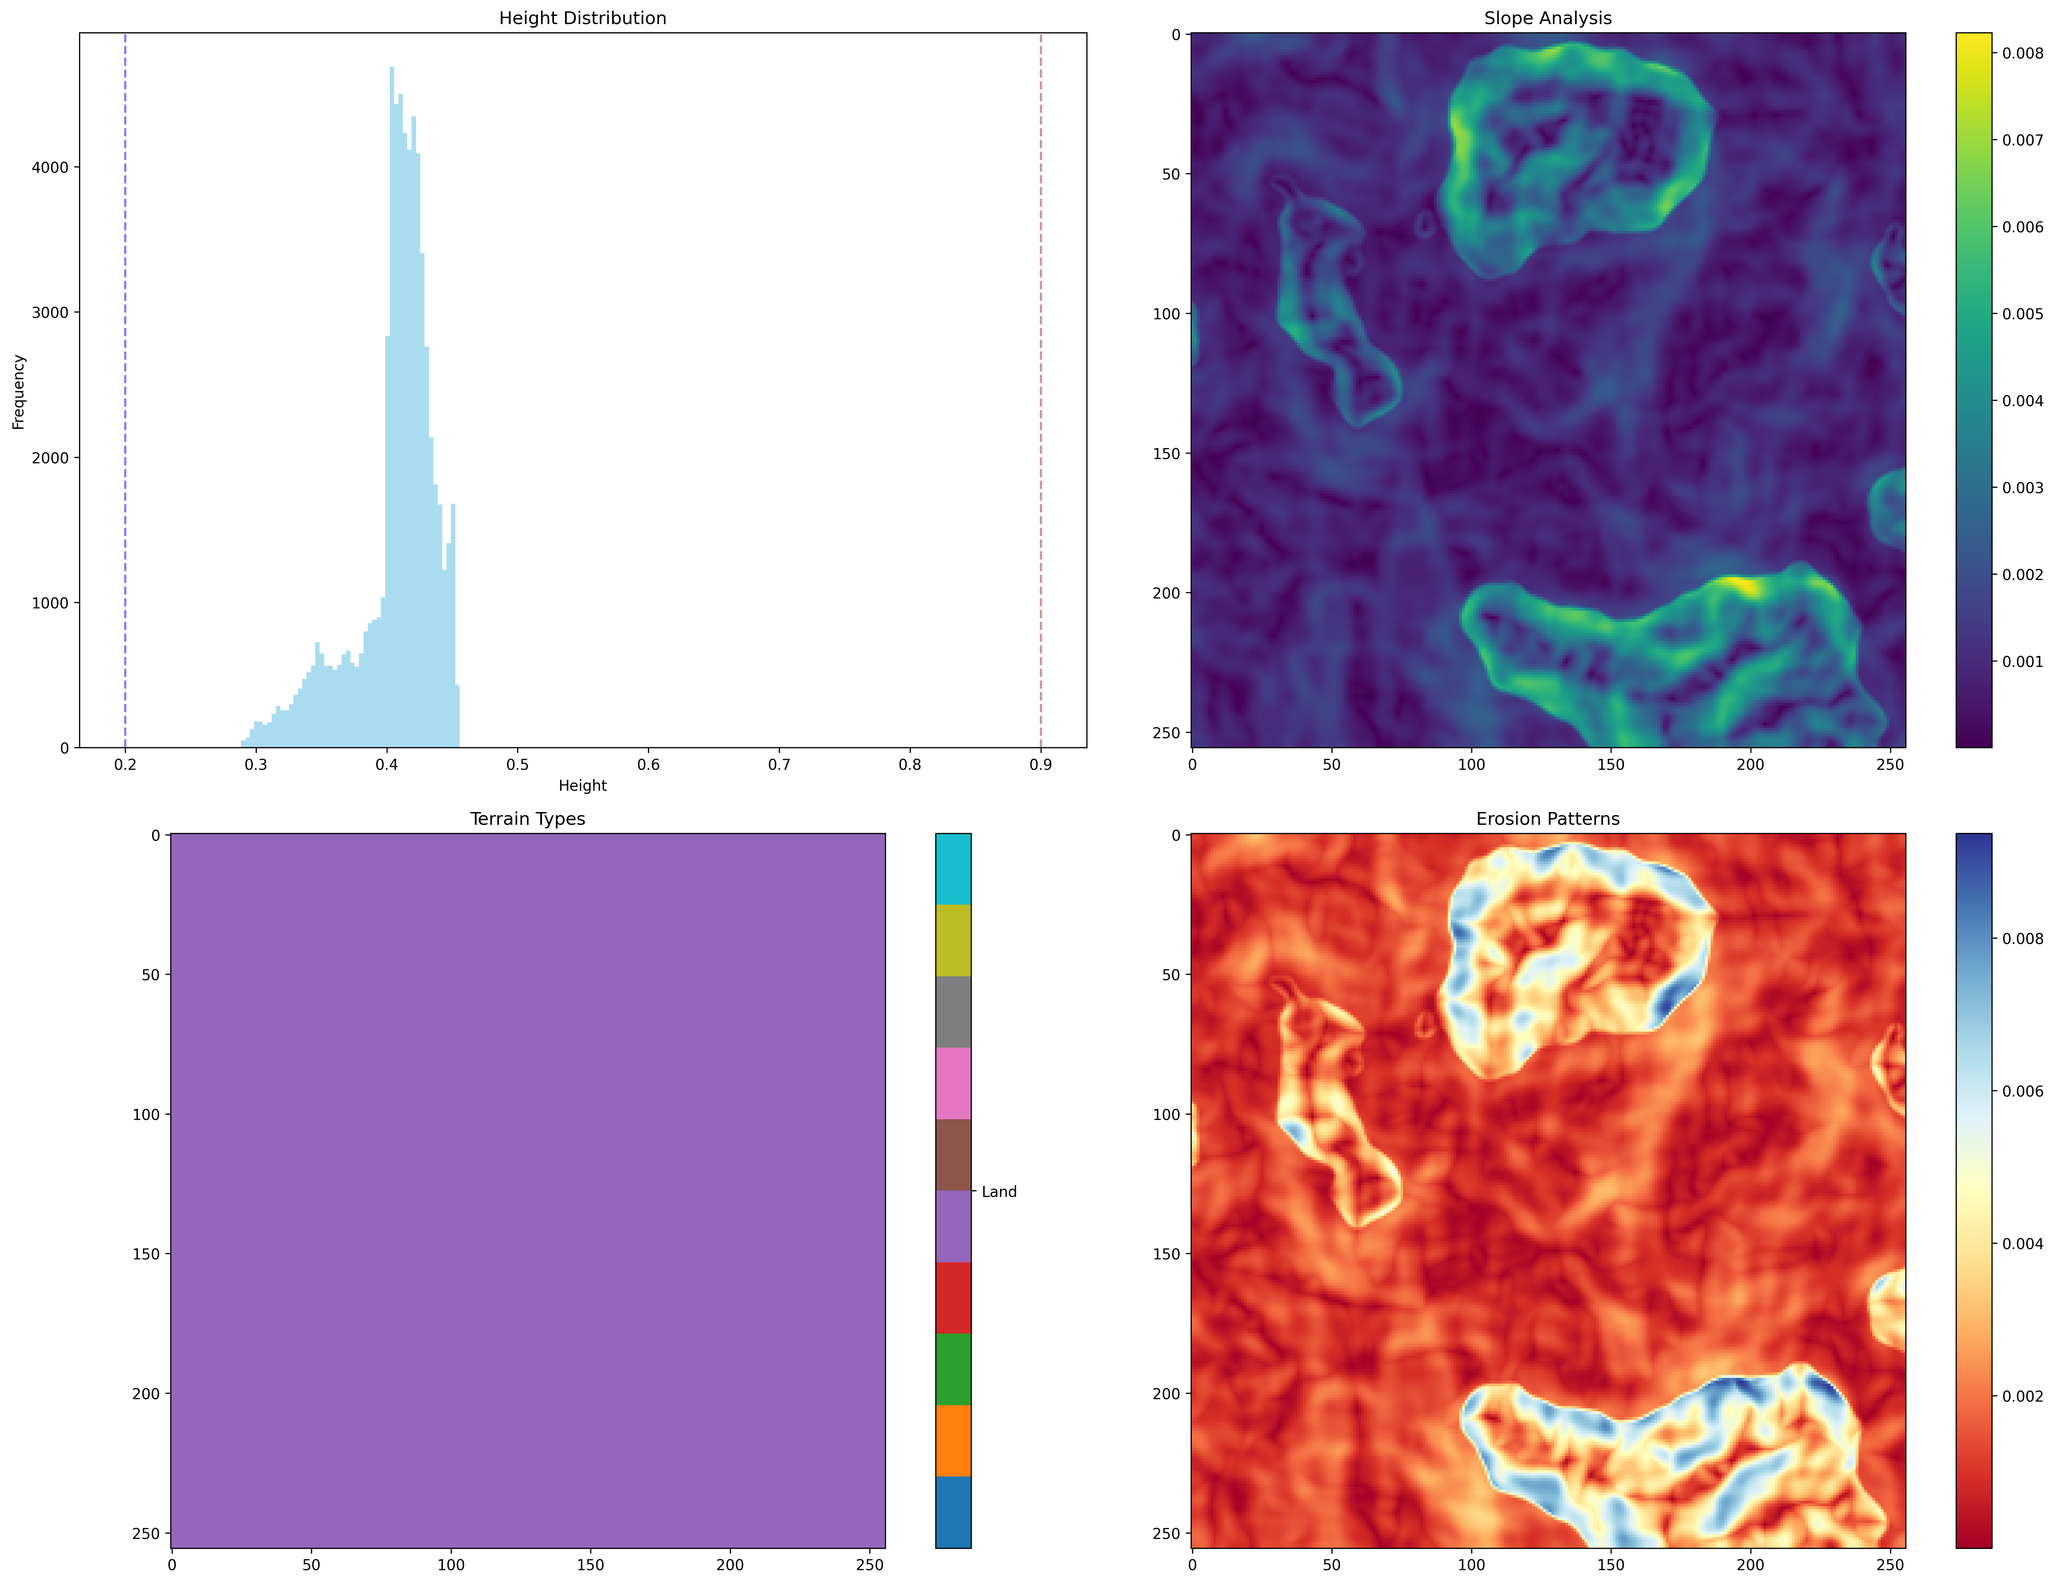
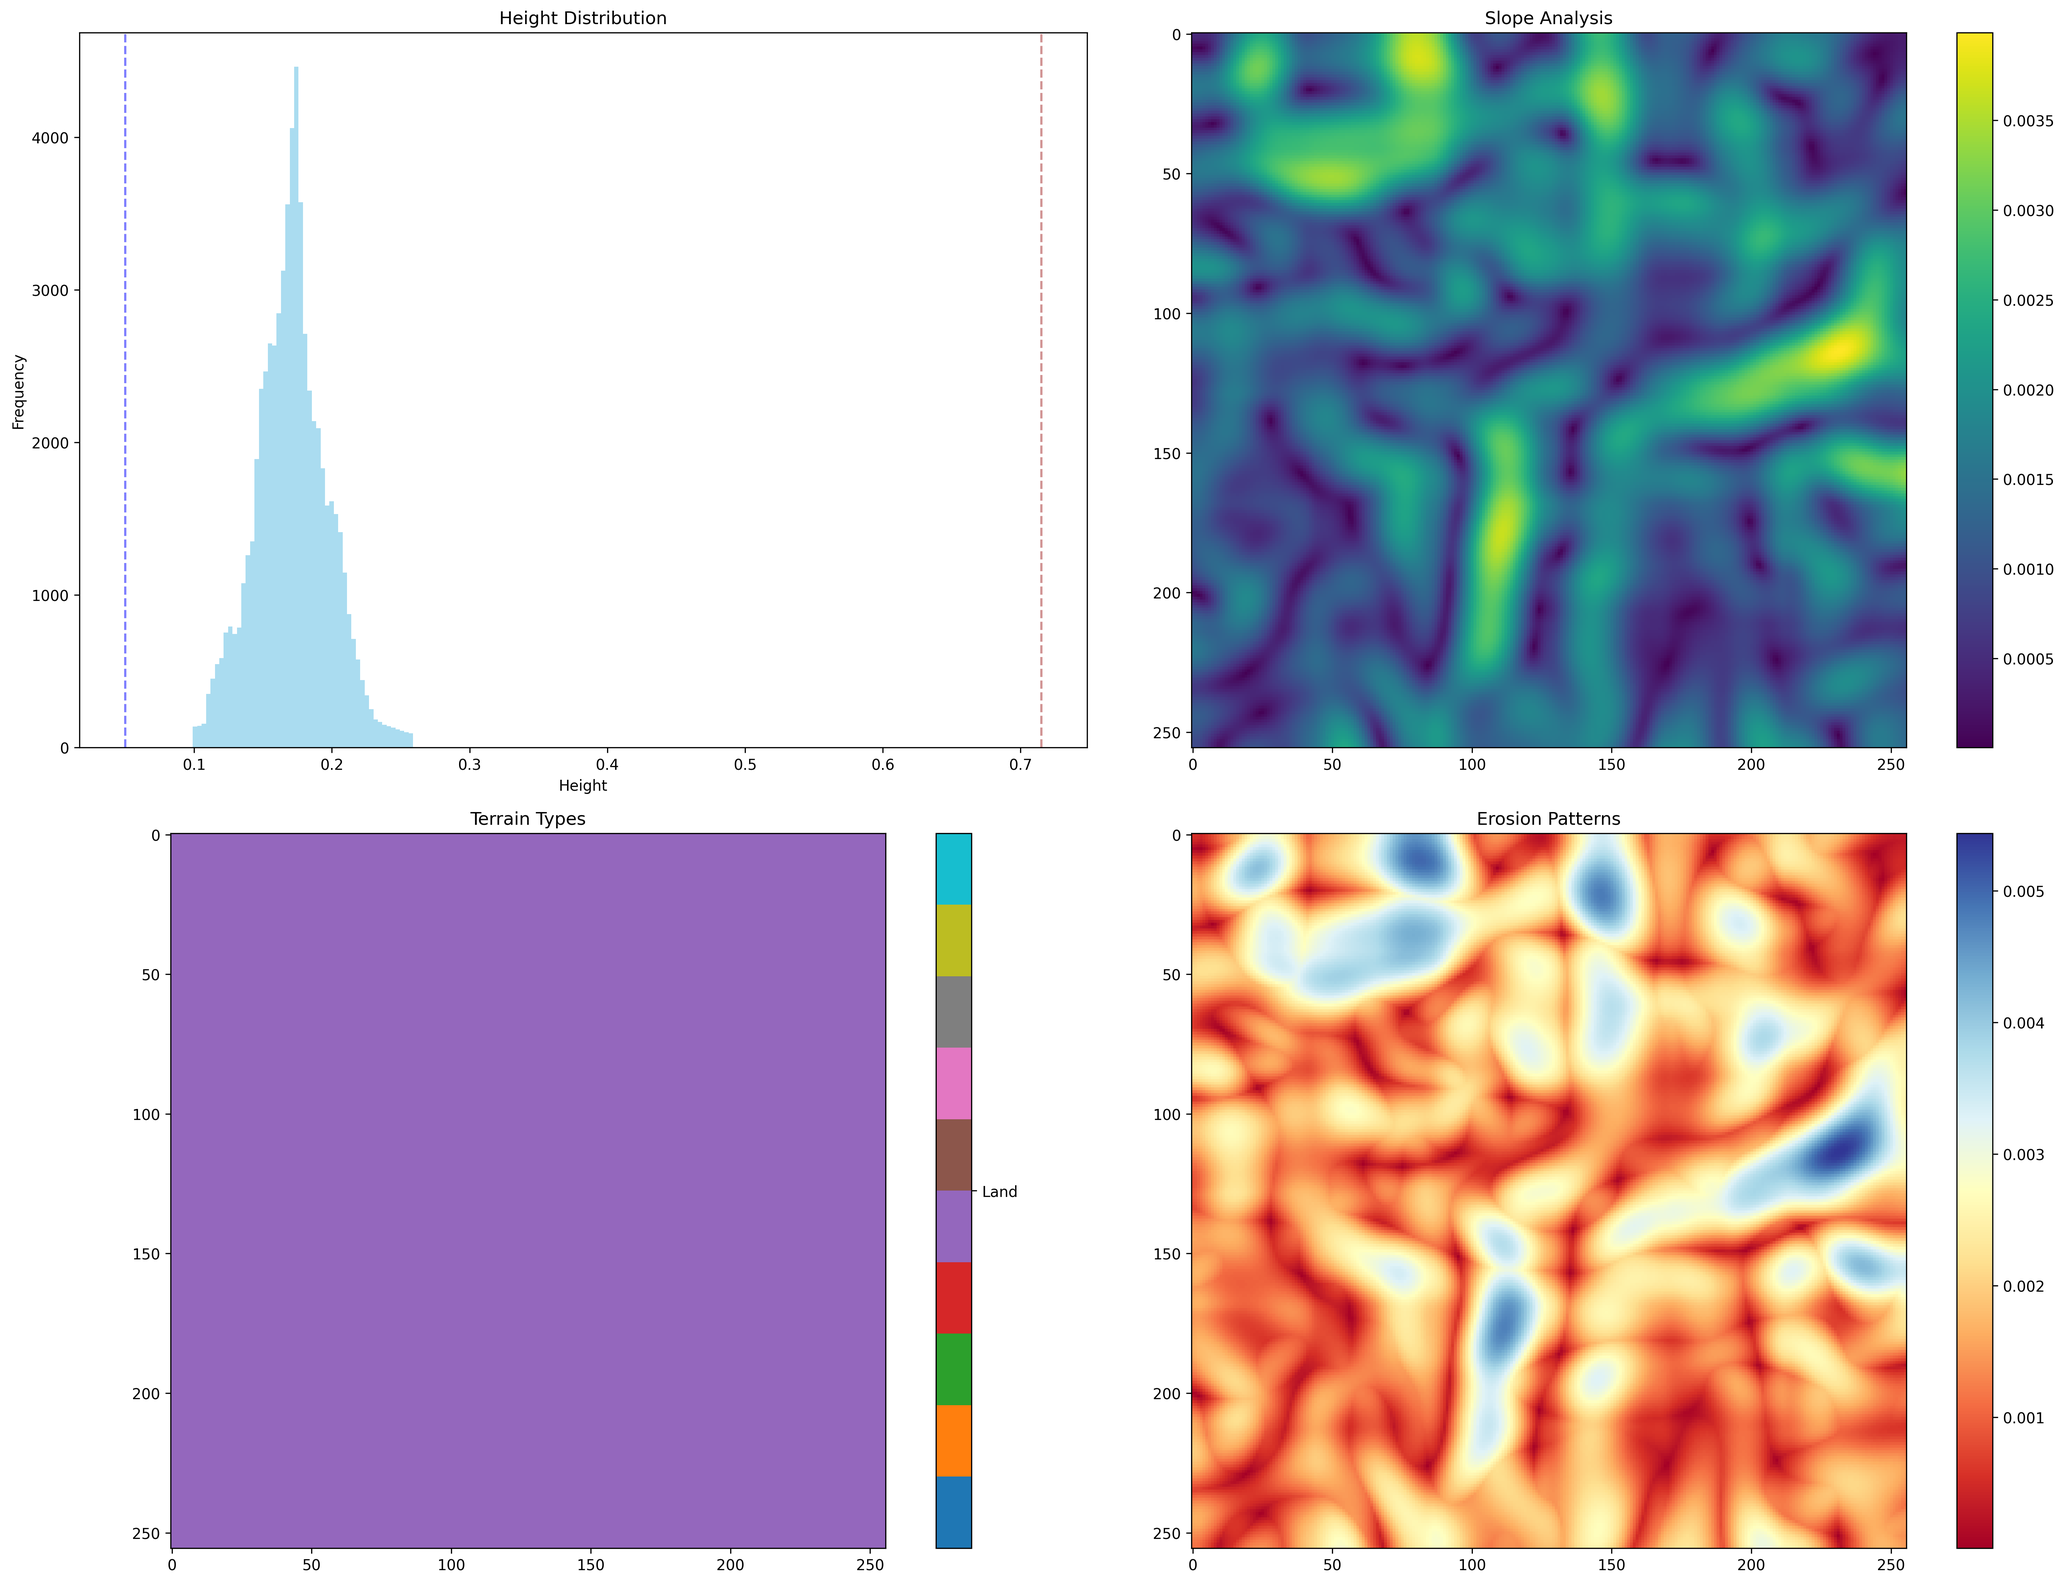
added more heightmap height variability

diff --git a/src/world/terrain_templates.py b/src/world/terrain_templates.py
@@ -12,72 +12,75 @@ class TerrainTemplate:
     settings: TerrainSettings
 
 class TerrainTemplateManager:
-    def __init__(self, templates_dir: Path = Path("config/terrain_templates")):
-        self.templates_dir = templates_dir
-        self.templates_dir.mkdir(parents=True, exist_ok=True)
-        self.templates: Dict[str, TerrainTemplate] = {}
-        self.load_templates()
+	def __init__(self, templates_dir: Path = Path("config/terrain_templates")):
+		self.templates_dir = templates_dir
+		self.templates_dir.mkdir(parents=True, exist_ok=True)
+		self.templates: Dict[str, TerrainTemplate] = {}
+		self.load_templates()
     
-    def save_template(self, name: str, description: str, settings: TerrainSettings) -> bool:
-        """Save a terrain template to disk."""
-        template = TerrainTemplate(name=name, description=description, settings=settings)
-        
-        # Convert settings to dictionary
-        template_dict = {
-            'name': template.name,
-            'description': template.description,
-            'settings': {
-                'width': template.settings.width,
-                'height': template.settings.height,
-                'octaves': template.settings.octaves,
-                'persistence': template.settings.persistence,
-                'lacunarity': template.settings.lacunarity,
-                'scale': template.settings.scale,
-                'erosion': asdict(template.settings.erosion) if template.settings.erosion else None
-            }
-        }
-        
-        try:
-            file_path = self.templates_dir / f"{name.lower().replace(' ', '_')}.yaml"
-            with open(file_path, 'w') as f:
-                yaml.dump(template_dict, f, default_flow_style=False)
-            self.templates[name] = template
-            return True
-        except Exception as e:
-            print(f"Error saving template: {e}")
-            return False
+	def save_template(self, name: str, description: str, settings: TerrainSettings) -> bool:
+		"""Save a terrain template to disk."""
+		template = TerrainTemplate(name=name, description=description, settings=settings)
+		
+		# Convert settings to dictionary
+		template_dict = {
+			'name': template.name,
+			'description': template.description,
+			'settings': {
+				'width': template.settings.width,
+				'height': template.settings.height,
+				'octaves': template.settings.octaves,
+				'persistence': template.settings.persistence,
+				'lacunarity': template.settings.lacunarity,
+				'scale': template.settings.scale,
+				'height_power': template.settings.height_power,
+				'water_level': template.settings.water_level,
+				'land_scale': template.settings.land_scale,
+				'erosion': asdict(template.settings.erosion) if template.settings.erosion else None
+			}
+		}
+		
+		try:
+			file_path = self.templates_dir / f"{name.lower().replace(' ', '_')}.yaml"
+			with open(file_path, 'w') as f:
+				yaml.dump(template_dict, f, default_flow_style=False)
+			self.templates[name] = template
+			return True
+		except Exception as e:
+			print(f"Error saving template: {e}")
+			return False
     
-    def load_templates(self) -> None:
-        """Load all terrain templates from disk."""
-        for template_file in self.templates_dir.glob("*.yaml"):
-            try:
-                with open(template_file, 'r') as f:
-                    template_dict = yaml.safe_load(f)
-                
-                # Create erosion settings if present
-                erosion_dict = template_dict['settings'].get('erosion')
-                erosion_settings = ErosionSettings(**erosion_dict) if erosion_dict else None
-                
-                # Create terrain settings
-                settings_dict = template_dict['settings']
-                settings_dict['erosion'] = erosion_settings
-                terrain_settings = TerrainSettings(**settings_dict)
-                
-                # Create and store template
-                template = TerrainTemplate(
-                    name=template_dict['name'],
-                    description=template_dict['description'],
-                    settings=terrain_settings
-                )
-                self.templates[template.name] = template
-                
-            except Exception as e:
-                print(f"Error loading template {template_file}: {e}")
-    
-    def get_template(self, name: str) -> Optional[TerrainTemplate]:
-        """Get a terrain template by name."""
-        return self.templates.get(name)
-    
-    def list_templates(self) -> Dict[str, str]:
-        """Return a dictionary of template names and their descriptions."""
-        return {name: template.description for name, template in self.templates.items()}
+	def load_templates(self) -> None:
+		"""Load all terrain templates from disk."""
+		for template_file in self.templates_dir.glob("*.yaml"):
+			try:
+				with open(template_file, 'r') as f:
+					template_dict = yaml.safe_load(f)
+				
+				# Create erosion settings if present
+				erosion_dict = template_dict['settings'].get('erosion')
+				erosion_settings = ErosionSettings(**erosion_dict) if erosion_dict else None
+				
+				# Create terrain settings
+				settings_dict = template_dict['settings']
+				settings_dict['erosion'] = erosion_settings
+				terrain_settings = TerrainSettings(**settings_dict)
+				
+				# Create and store template
+				template = TerrainTemplate(
+					name=template_dict['name'],
+					description=template_dict['description'],
+					settings=terrain_settings
+				)
+				self.templates[template.name] = template
+				
+			except Exception as e:
+				print(f"Error loading template {template_file}: {e}")
+
+	def get_template(self, name: str) -> Optional[TerrainTemplate]:
+		"""Get a terrain template by name."""
+		return self.templates.get(name)
+
+	def list_templates(self) -> Dict[str, str]:
+		"""Return a dictionary of template names and their descriptions."""
+		return {name: template.description for name, template in self.templates.items()}

diff --git a/src/world/terrain_settings.py b/src/world/terrain_settings.py
@@ -26,31 +26,37 @@ class ErosionSettings:
 
 @dataclass
 class TerrainSettings:
-    """Settings for terrain generation."""
-    width: int
-    height: int
-    octaves: int
-    persistence: float
-    lacunarity: float
-    scale: float
-    seed: Optional[int] = None
-    erosion: Optional[ErosionSettings] = None
+	"""Settings for terrain generation."""
+	width: int
+	height: int
+	octaves: int
+	persistence: float
+	lacunarity: float
+	scale: float
+	height_power: float = 1.2      # Controls height distribution curve
+	water_level: float = 0.4       # Base water level
+	land_scale: float = 0.3        # Controls land height scaling
+	seed: Optional[int] = None
+	erosion: Optional[ErosionSettings] = None
     
-    @classmethod
-    def from_config(cls, config: dict) -> 'TerrainSettings':
-        """Create TerrainSettings from a configuration dictionary."""
-        erosion_config = config.get('erosion')
-        erosion_settings = None
-        if erosion_config:
-            erosion_settings = ErosionSettings.from_config(erosion_config)
-            
-        return cls(
-            width=config.get('width', 256),
-            height=config.get('height', 256),
-            octaves=config.get('octaves', 6),
-            persistence=config.get('persistence', 0.5),
-            lacunarity=config.get('lacunarity', 2.0),
-            scale=config.get('scale', 100.0),
-            seed=config.get('seed'),
-            erosion=erosion_settings
-        ) 
+	@classmethod
+	def from_config(cls, config: dict) -> 'TerrainSettings':
+		"""Create TerrainSettings from a configuration dictionary."""
+		erosion_config = config.get('erosion')
+		erosion_settings = None
+		if erosion_config:
+			erosion_settings = ErosionSettings.from_config(erosion_config)
+			
+		return cls(
+			width=config.get('width', 256),
+			height=config.get('height', 256),
+			octaves=config.get('octaves', 6),
+			persistence=config.get('persistence', 0.5),
+			lacunarity=config.get('lacunarity', 2.0),
+			scale=config.get('scale', 100.0),
+			height_power=config.get('height_power', 1.2),
+			water_level=config.get('water_level', 0.4),
+			land_scale=config.get('land_scale', 0.3),
+			seed=config.get('seed'),
+			erosion=erosion_settings
+		) 

diff --git a/src/utils/configuration_manager.py b/src/utils/configuration_manager.py
@@ -5,6 +5,7 @@ from pathlib import Path
 from typing import Any, Dict, Optional, Union, List
 from dataclasses import dataclass
 from enum import Enum, auto
+from src.world.terrain_settings import TerrainSettings
 
 class ConfigScope(Enum):
     """Defines different configuration scopes."""
@@ -146,6 +147,23 @@ class ConfigurationManager:
     def get_debug_settings(self) -> Dict[str, bool]:
         """Get debug configuration settings."""
         return self.config.get('debug', self.DEFAULT_CONFIG['debug'])
+    
+    def get_terrain_settings(self) -> TerrainSettings:
+        """Get terrain generation settings from config."""
+        terrain_config = self.config.get('terrain', {})
+        return TerrainSettings(
+            width=terrain_config.get('width', 256),
+            height=terrain_config.get('height', 256),
+            octaves=terrain_config.get('octaves', 6),
+            persistence=terrain_config.get('persistence', 0.5),
+            lacunarity=terrain_config.get('lacunarity', 2.0),
+            scale=terrain_config.get('scale', 100.0),
+            height_power=terrain_config.get('height_power', 1.2),
+            water_level=terrain_config.get('water_level', 0.4),
+            land_scale=terrain_config.get('land_scale', 0.3),
+            seed=terrain_config.get('seed'),
+            erosion=self._get_erosion_settings(terrain_config)
+        )
         
     def update_config(self, scope: ConfigScope, settings: Dict[str, Any]) -> bool:
         """Update configuration settings for a specific scope."""

diff --git a/src/utils/world_visualization.py b/src/utils/world_visualization.py
@@ -3,19 +3,22 @@ import numpy as np
 import matplotlib.pyplot as plt
 from typing import Optional, Tuple, List
 from pathlib import Path
+from src.world.terrain_settings import TerrainSettings
 
 class TerrainVisualizer:
     """Utility class for visualizing terrain data."""
     
-    def __init__(self):
+    def __init__(self, terrain_settings: Optional[TerrainSettings] = None):
         # Default color maps for different terrain features
         self.TERRAIN_CMAP = 'terrain'
         self.EROSION_CMAP = 'RdYlBu'
         self.GRADIENT_CMAP = 'coolwarm'
         
-        # Height thresholds for terrain types (as percentages)
-        self.WATER_LEVEL = 0.2
-        self.MOUNTAIN_LEVEL = 0.9
+        # Use provided settings or defaults
+        self.WATER_LEVEL = (terrain_settings.water_level if terrain_settings 
+                           else 0.4)
+        self.MOUNTAIN_LEVEL = (self.WATER_LEVEL + 
+                              (1.0 - self.WATER_LEVEL) * 0.7)
         
     def display_heightmap(self, 
                          heightmap: np.ndarray,

diff --git a/src/utils/terrain_preview.py b/src/utils/terrain_preview.py
@@ -1,4 +1,16 @@
 #!/usr/bin/env python3
+# usage
+# Save both visualizations and template
+# python -m src.utils.terrain_preview --output-dir output/desert_preview --save-template "Desert Plains"
+
+# save terrain template
+# python -m src.utils.terrain_preview --save-template "Desert Plains"
+
+# use a specific template for rendering
+# python -m src.utils.terrain_preview --template "Desert Plains"
+
+# Use custom output directory
+# python -m src.utils.terrain_preview --output-dir my_terrain_output
 
 import sys
 from pathlib import Path
@@ -44,8 +56,8 @@ def preview_terrain(
         else:
             print(f"Failed to save terrain template: {save_as_template}")
     
-    # Initialize visualizer
-    visualizer = TerrainVisualizer()
+    # Initialize visualizer with terrain settings
+    visualizer = TerrainVisualizer(world_generator.terrain_generator.settings)
     
     # Create output directory if saving
     if save_dir:

diff --git a/src/world/world_generator.py b/src/world/world_generator.py
@@ -77,3 +77,23 @@ class WorldGenerator:
         """Load a world from disk."""
         # TODO: Implement world loading
         pass
+    
+    @classmethod
+    def from_template(cls, template_name: str) -> 'WorldGenerator':
+        """Create a WorldGenerator instance from a terrain template."""
+        # Create a minimal config manager for non-terrain settings
+        config_manager = ConfigurationManager()
+        
+        # Create the terrain generator from template
+        terrain_generator = TerrainGenerator.from_template(template_name)
+        
+        # Create instance
+        instance = cls(config_manager)
+        
+        # Override the terrain generator with our template-based one
+        instance.terrain_generator = terrain_generator
+        
+        # Update settings to match the template
+        instance.settings.terrain = terrain_generator.settings
+        
+        return instance

diff --git a/src/world/terrain_generator.py b/src/world/terrain_generator.py
@@ -181,17 +181,13 @@ class TerrainGenerator:
 		heightmap = (heightmap + 1) * 0.5
 		
 		# Apply exponential distribution for more realistic terrain
-		# This will create more lowlands and fewer mountains
-		power = 1.2  # Adjust this value to control the distribution
-		heightmap = np.power(heightmap, power)
+		heightmap = np.power(heightmap, self.settings.height_power)
 		
 		# Apply continental shelf effect
-		# This creates more distinct transitions between water and land
-		water_level = 0.4
-		land_scale = 0.3
-		
-		mask = heightmap > water_level
-		heightmap[mask] = water_level + (heightmap[mask] - water_level) * land_scale
+		mask = heightmap > self.settings.water_level
+		heightmap[mask] = (self.settings.water_level + 
+						  (heightmap[mask] - self.settings.water_level) * 
+						  self.settings.land_scale)
 		
 		return heightmap
 	

diff --git a/README.md b/README.md
@@ -17,4 +17,5 @@ Nihilis is the fusion of a world simulator, a procedural story generator, and a 
 |            |   0.5   | broke ui and game loop into their own modules; added tests for all |
 |            |   0.6   | added configuration management, performance monitoring, and keybinds |
 |            |   0.7   | added procedural terrain, terrain templates, & terrain vis util |
+|            |   0.8   | expanded on templates, added more height variability         |
 
